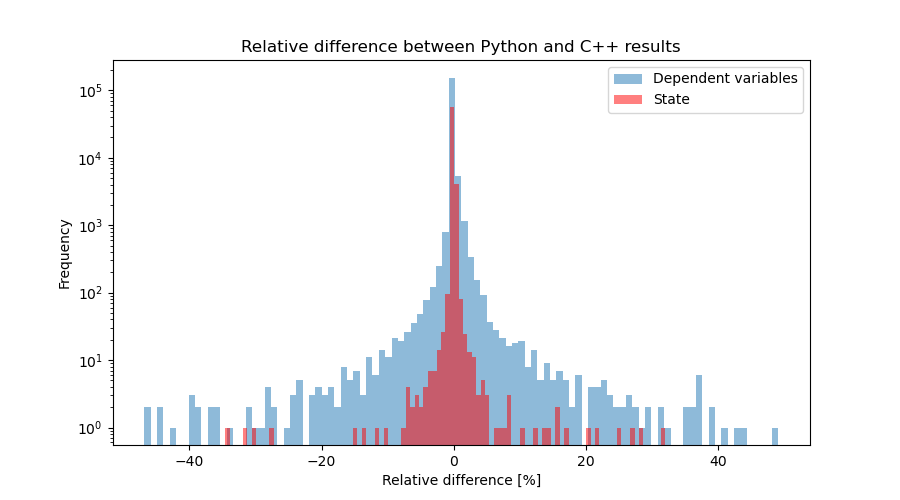
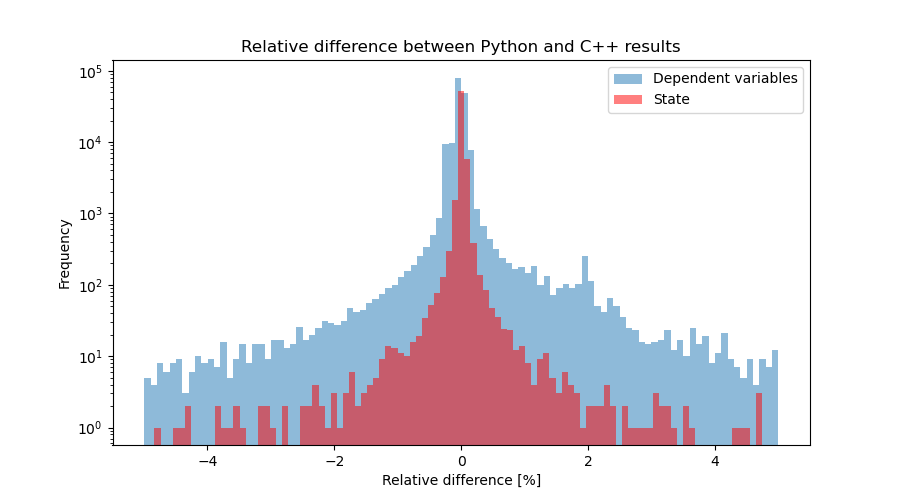
Small adjutments in the plot

diff --git a/perturbed-satellite-orbit/postprocess.py b/perturbed-satellite-orbit/postprocess.py
@@ -27,8 +27,8 @@ outputdir = "output"
 state_diff = ((states_array_cpp - states_array_python) / states_array_cpp)
 dep_var_diff = ((dep_vars_array_cpp - dep_vars_array_python) / dep_vars_array_cpp)
 
-state_diff = state_diff[np.abs(state_diff) < 50]
-dep_var_diff = dep_var_diff[np.abs(dep_var_diff) < 50]
+state_diff = state_diff[np.abs(state_diff) < 5]
+dep_var_diff = dep_var_diff[np.abs(dep_var_diff) < 5]
 
 plt.figure(figsize=(9, 5))
 plt.hist(dep_var_diff.flatten(), alpha=0.5,  bins=100, label="Dependent variables", log=True)

diff --git a/perturbed-satellite-orbit/README.md b/perturbed-satellite-orbit/README.md
@@ -32,13 +32,12 @@ python postprocess.py
 ```
 
 
-> **Alternatively**, you can use the `./runAll`, which does all of the steps mentioned above.
-{.is-warning}
+**Alternatively**, you can use the `./runAll`, which does all of the steps mentioned above.
 
 
 
 ## Result
 
 
-
+The image below shows the differences in the output from the C++ and Python code. More plots can be found in the [output/](./output/) directory after running the postprocessing.
 ![Relative Differences](figs/relative_difference.png)
